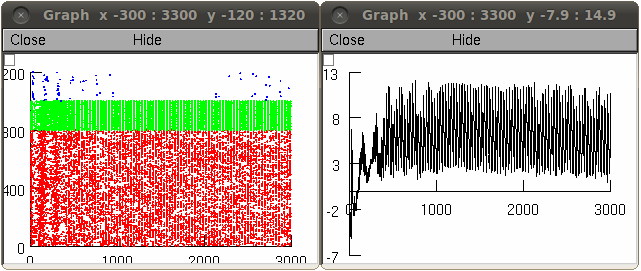
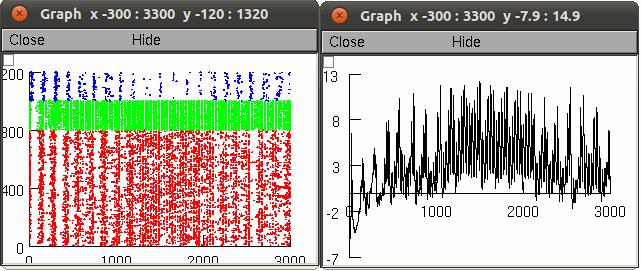
updated screenshot from Amy Delman which reflects the latest version  of the model.

diff --git a/readme.html b/readme.html
@@ -52,4 +52,6 @@ Mac OS X: infot.mod was removed and misc.h, stats.mod replaced.
 20120920 an update from Sam where h.v_init is set to -65 in params.py,
 which corrects initialization differences (and therefore different
 output) when this model is used with nrngui.
+20121206 applied updated screenshot.png from Amy Delman which reflects the
+latest version of the model.
 </pre></html>
